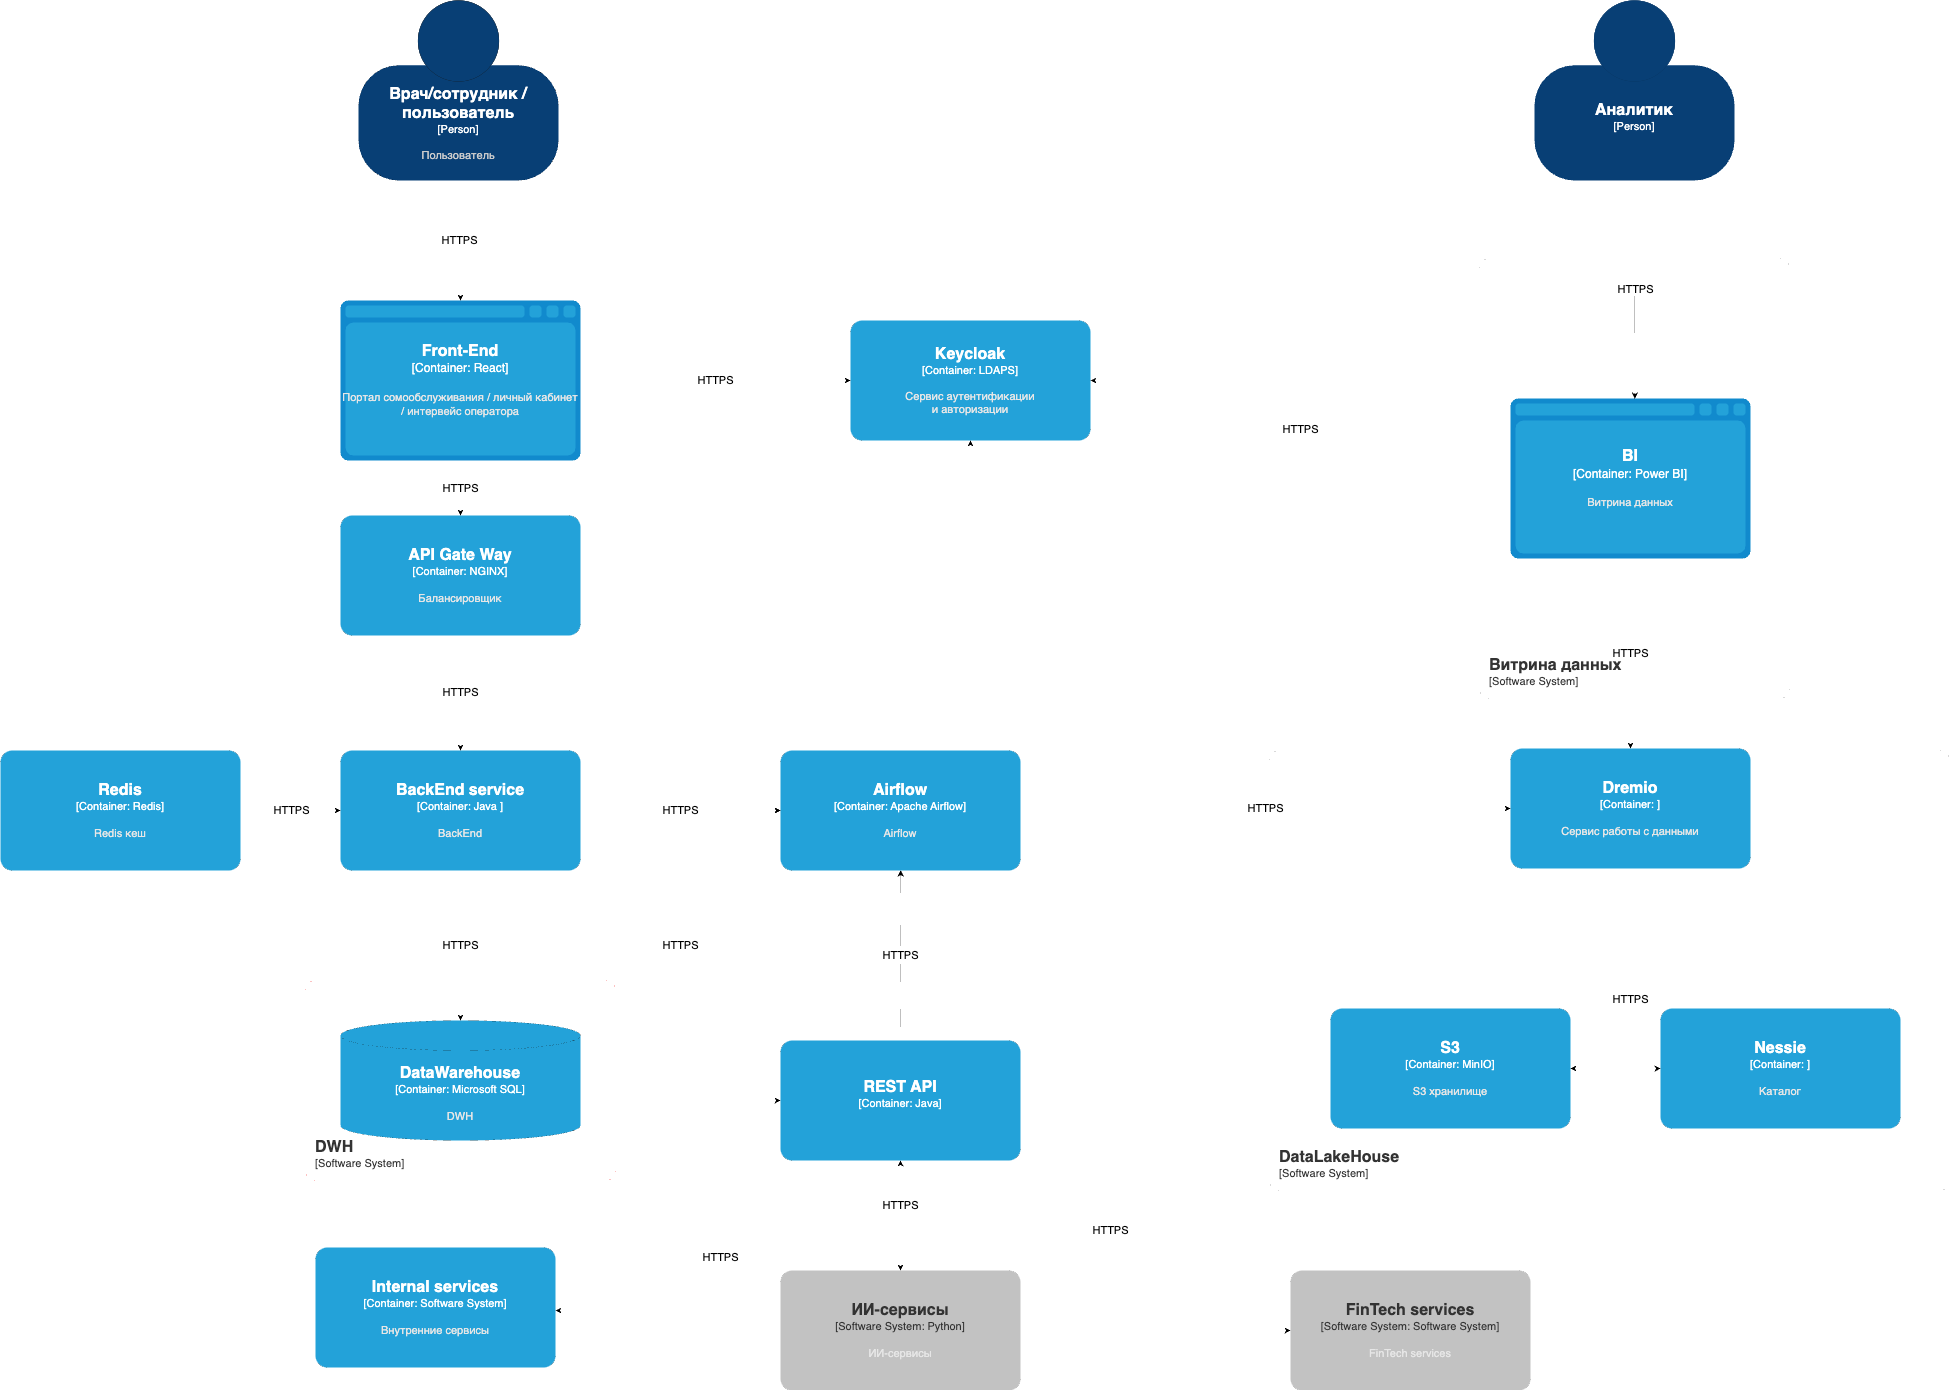
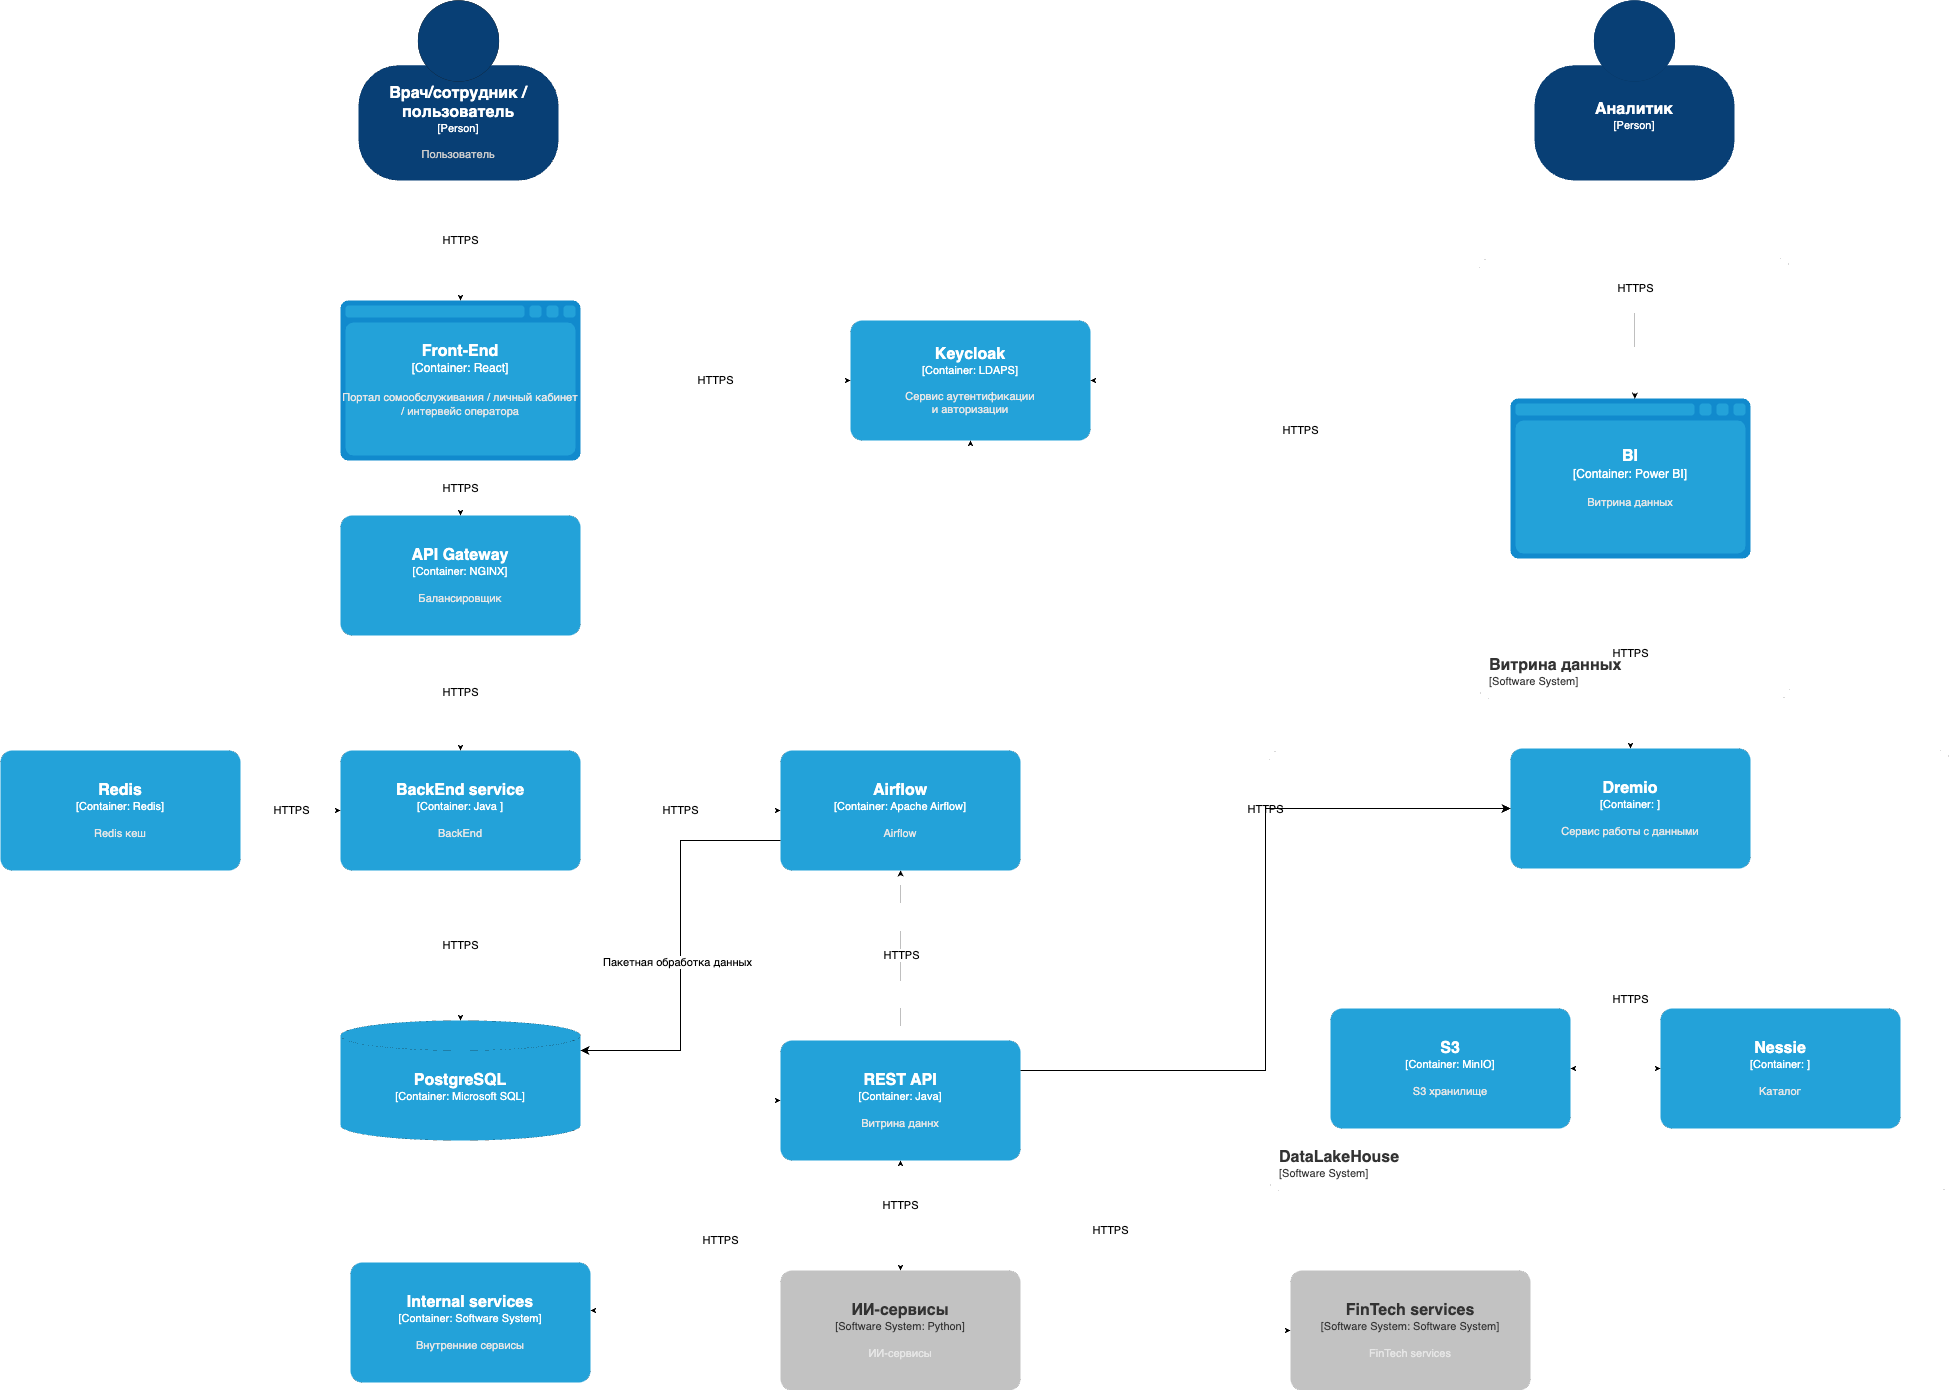
исправление замечаний

diff --git a/Task2/argue.md b/Task2/argue.md
@@ -1,0 +1,41 @@
+### Задание 2
+
+#### 1. Ключевые бизнес-домены
+
+| Домен | Назначение | Примеры данных |
+|-------|------------|----------------|
+| Управление клиентами | Взаимодействие с пациентами и клиентами банка | Персональные данные, история обращений |
+| Медицинские сервисы | Обработка медицинской информации | Диагнозы, назначения, результаты анализов |
+| Финансовые операции | Управление платежами и банковскими продуктами | Счета, транзакции, кредитная история |
+| Аналитический центр | Поддержка принятия решений | Агрегированные отчеты, KPI |
+
+
+#### 2. Взаимодействие компонентов
+
+data_flow_diagram.png
+
+#### 3. Преимущества предлагаемого решения
+
+**Гибкая модульная структура**
+- Четкое разделение функциональности между независимыми компонентами
+- Возможность параллельной разработки разных модулей
+- Упрощенное тестирование и внедрение изменений
+- Пример: обновление финансового модуля не требует изменений в медицинской части
+
+**Эффективное масштабирование**
+- Каждый домен развивается автономно
+- Горизонтальное масштабирование критически важных сервисов
+- Гибкое распределение ресурсов между направлениями
+- Поддержка быстрого подключения новых бизнес-направлений
+
+**Комплексная безопасность**
+- Многоуровневая система доступа к данным
+- Изоляция медицинских и финансовых данных
+- Детальный аудит операций
+- Соответствие GDPR и отраслевым стандартам
+
+**Технологические преимущества**
+- Современный стек технологий (Kafka вместо устаревшей шины)
+- Оптимальное распределение данных (OLTP + OLAP системы)
+- Автоматизированные конвейеры данных
+- Поддержка распределенной работы

diff --git a/Task1/problems.md b/Task1/problems.md
@@ -18,8 +18,11 @@
 - Разделение данных по бизнес-доменам (медицина, финансы, ИИ)
 
 1. **Should have** (важно):
-- Модернизация интеграционной шины (замена Apache Camel на Kafka или RabbitMQ)
+- Обновление устаревших технологий: Шина на базе Apache Camel, PowerBuilder
+- Внедрение политики безопасности персональных данных, соблюдение ФЗ-152
+Перенос исторических данных на обновленный DWH
 - Внедрение инструментов мониторинга нагрузки на хранилище
+
 
 1. **Could have** (желательно):
 - Создание отдельных витрин данных для каждого подразделения
@@ -31,11 +34,7 @@
 
 **Рекомендации по архитектуре**:
 1. Для DWH - использовать PostgreSQL как основное хранилище
-2. Для аналитических витрин - ClickHouse для ускорения сложных запросов
-3. Реализовать трехуровневую архитектуру:
-   - Raw слой (сырые данные)
-   - DWH (нормализованные данные)
-   - Витрины (оптимизированные для отчетности)
+2. Реализовать архитектуру Data Lake House для работы с данными, позволить анализировать как исторические данные так и улучшать предиктивные модели, что соответсвует цели компании 
 
 **Бизнес-преимущества предлагаемых изменений**:
 - Сокращение времени генерации отчетов с часов до минут